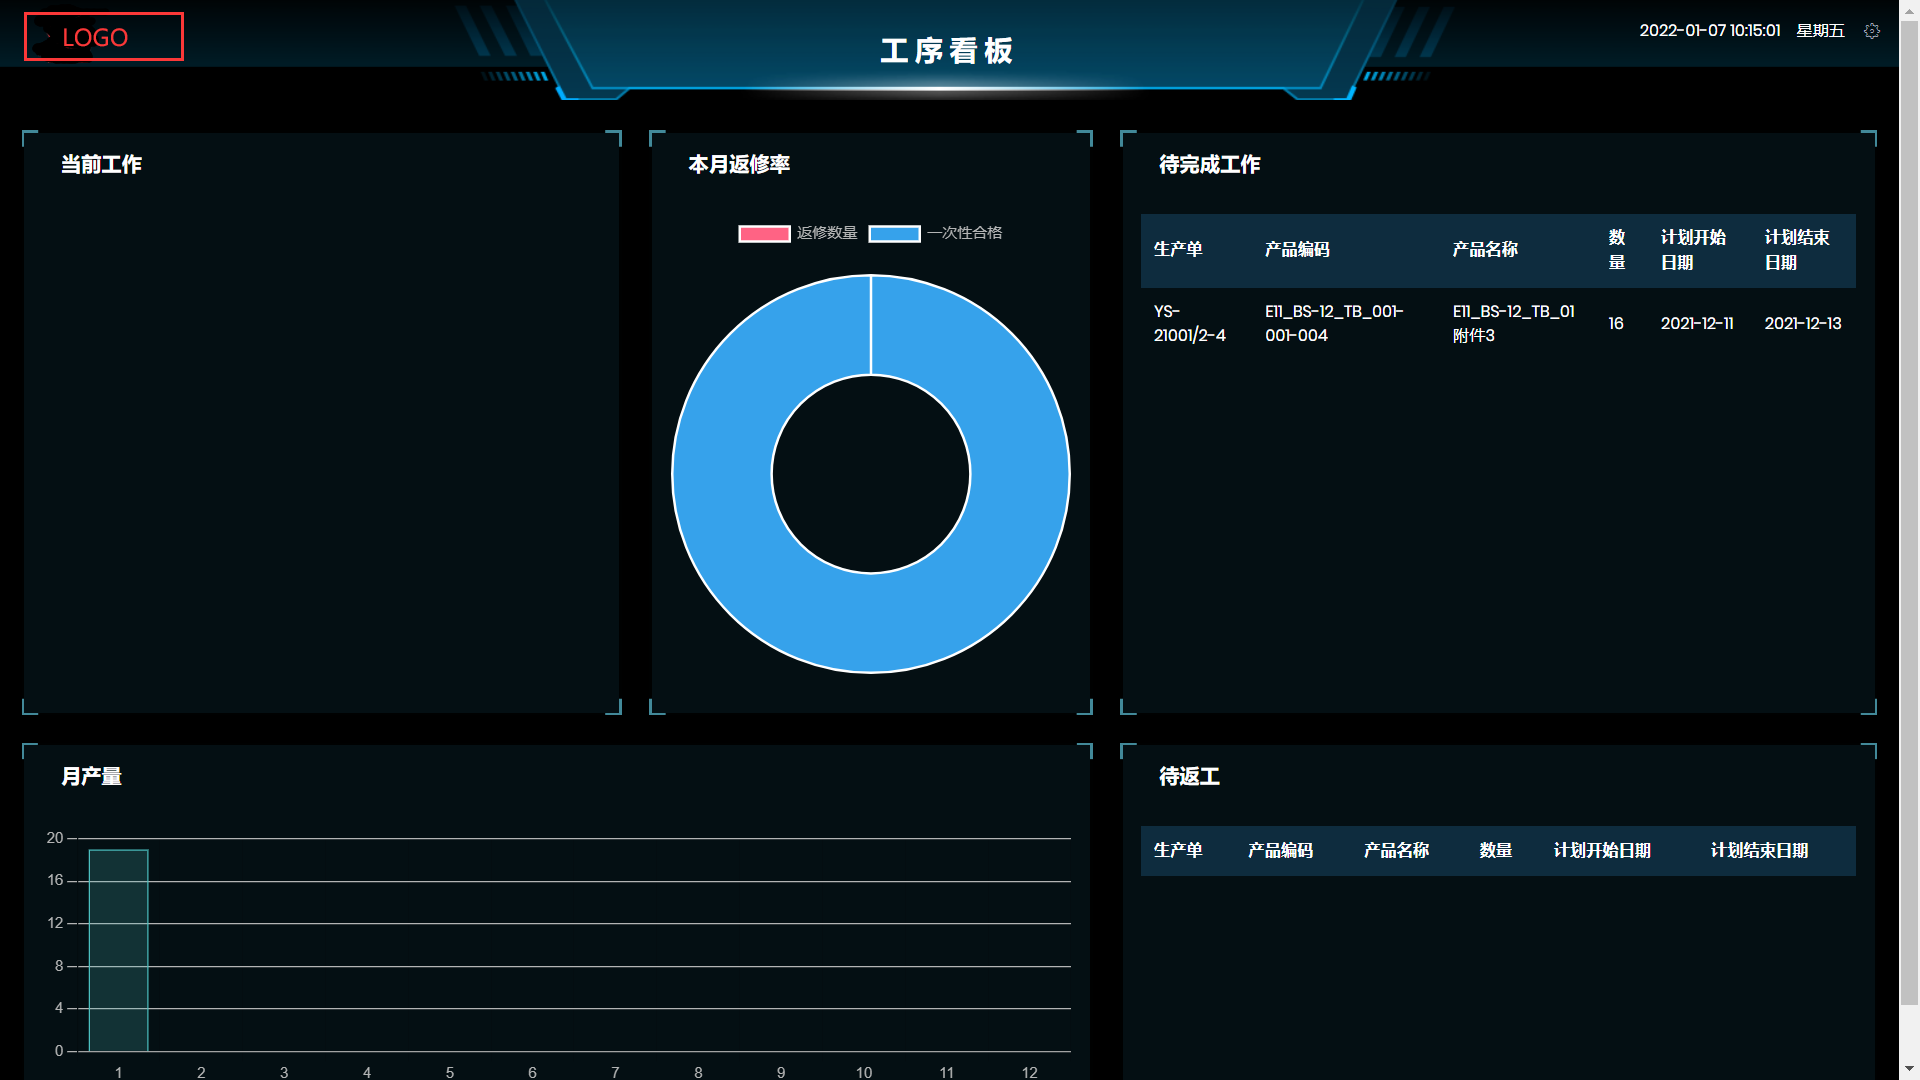
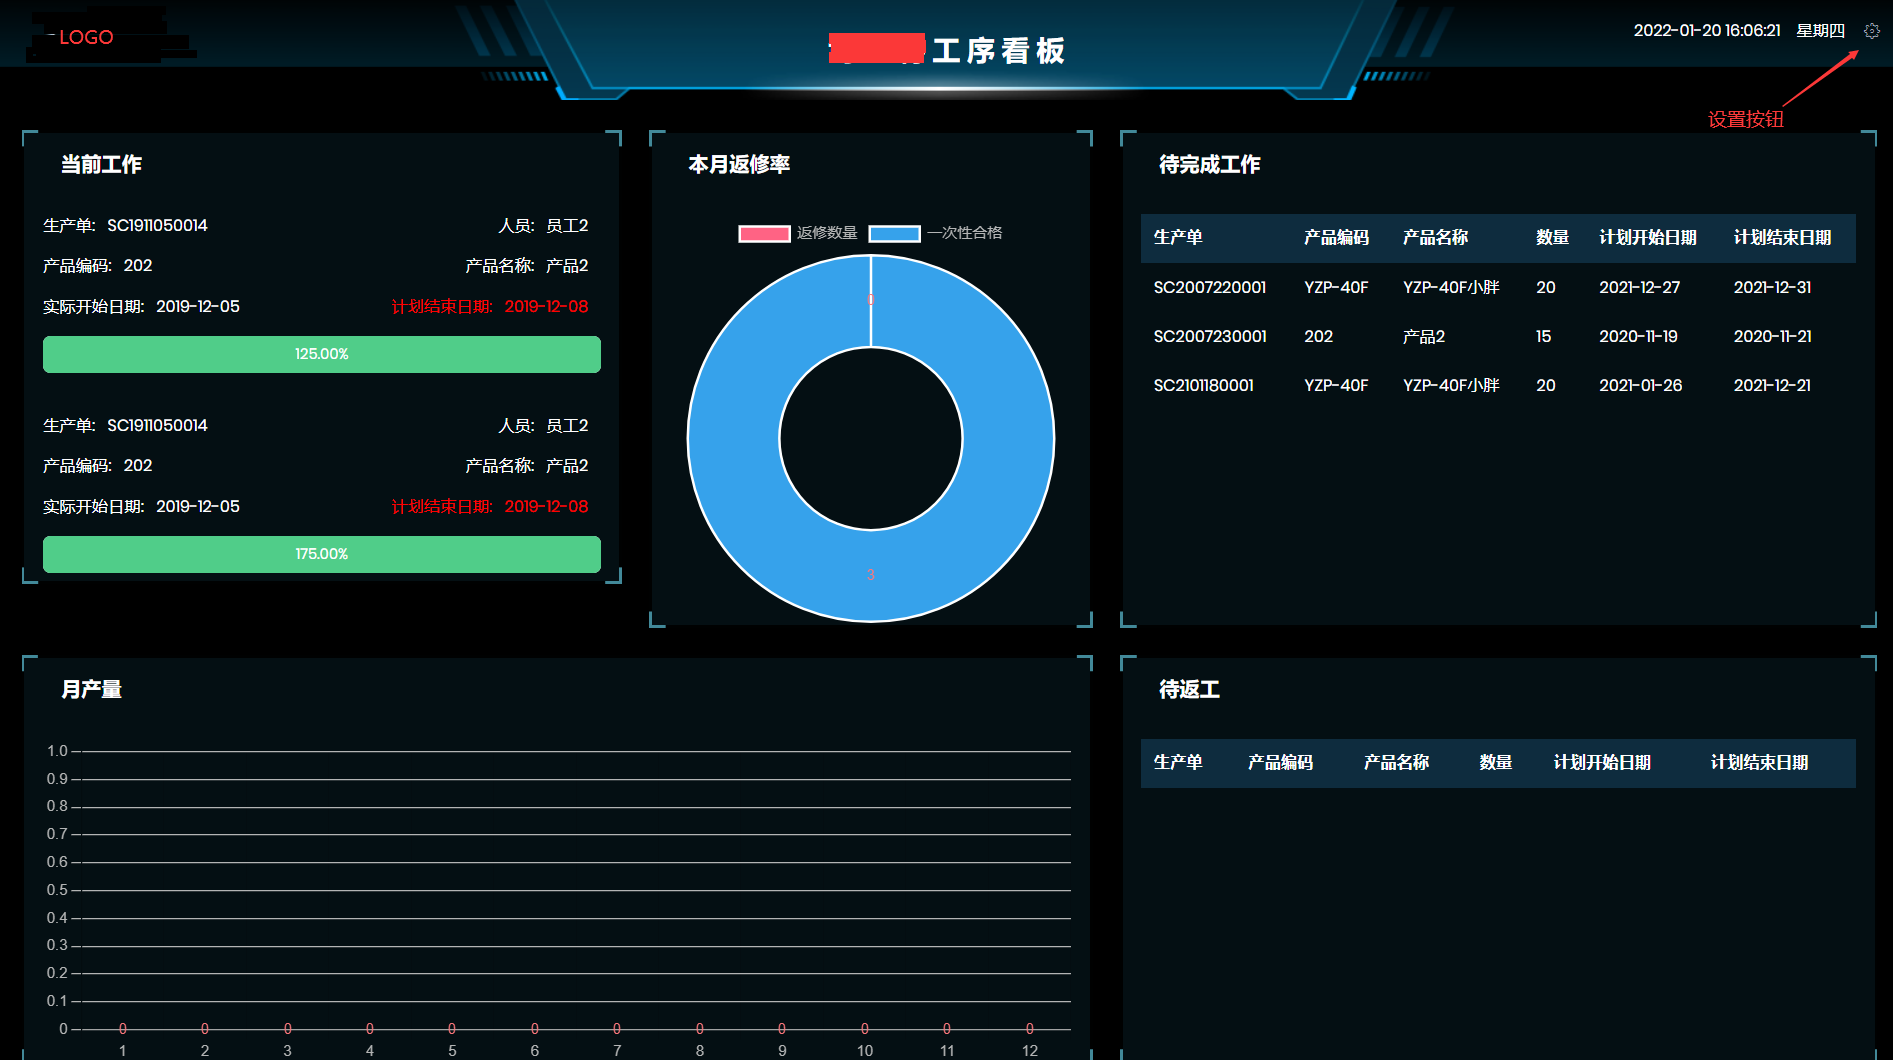
增加仪表板设置, 工资表字段说明等

diff --git a/docs/zh-Hans/HR/Payroll/PayrollItem.md b/docs/zh-Hans/HR/Payroll/PayrollItem.md
@@ -12,7 +12,95 @@
   - 日记账: 根据日记账的输入计算, 比如各种请假和补贴, 罚款等
   - 固定: 表示该项目是固定金额, 不受其他因素影响, 如出勤时间等
   - 设置: 表示该项目需要在**工资设置**中设置
-  - 计算: 设置计算的项目: 小时工资, 缺勤工资, 病假工资等, 例如:
+  - 计算: 设置计算的项目: 小时工资, 缺勤工资, 病假工资等, 
+      1. `时间/数量字段`和`金额字段`, 只能选择一个, 表示计算的结果放在那里. 
+      2. `条件`表示当满足这个条件时, 才计算这个工资名称. 如需使用数据库字段时, 使用这样的格式, `{Skill}`表示技能工资. 数据库字段参见下面的工资表字段.
+      2. `公式`是计算时使用的公式.  如需使用数据库字段时, 使用这样的格式, `{Skill}`表示技能工资. 数据库字段参见下面的工资表字段.
+      
+      例如:
 ![Payrollitem List](../../images/HR/payrollitem-list.png)
   ![Payrollitem](../../images/HR/payrollitem.png)
-- 
+- 顺序: 表示更新工资时, 按这个顺序来计算工资项目. 如: 先计算小时工资, 然后根据小时工资计算病假工资, 各种缺勤各种等.
+- 不扣税: 表示该工资项目不需要扣税. 
+- 工资表中显示日记账明细: 如果选中, 该工资名称会出现在工资表中.
+
+
+### 工资表字段
+
+<table><thead><tr><th>字段</th><th>说明</th></tr></thead>
+<tbody>
+<tr><td>EmployeeId</td><td>员工Id (员工页面可以看到)</td></tr>
+<tr><td>OrganizationUnitId</td><td>部门Id</td></tr>
+
+<tr><td>Year</td><td>年</td></tr>
+<tr><td>Month</td><td>月</td></tr>
+<tr><td>BasePay</td><td>基本工资</td></tr>
+<tr><td>Position</td><td>岗位工资</td></tr>
+<tr><td>PositionSubsidy</td><td>岗位补贴</td></tr>
+<tr><td>Skill</td><td>技能工资</td></tr>
+<tr><td>Seniority</td><td>工龄工资</td></tr>
+<tr><td>Subsidy</td><td>补贴</td></tr>
+<tr><td>PerformancePay</td><td>绩效工资</td></tr>
+<tr><td>PerformanceQty</td><td>绩效分数</td></tr>
+
+<tr><td>Total</td><td>应得工资</td></tr>
+<tr><td>Paid</td><td>实发工资</td></tr>
+<tr><td>Commission</td><td>提成</td></tr>
+<tr><td>HourlyRate</td><td>小时工资</td></tr>
+
+<tr><td>TaxableAmount</td><td>可扣税金额</td></tr>
+<tr><td>NoTaxAmount</td><td>不扣税金额</td></tr>
+<tr><td>TaxExemAmount</td><td>个税扣除项金额</td></tr>
+<tr><td>FullTime</td><td>满勤奖</td></tr>
+<tr><td>OverTime</td><td>加班工资</td></tr>
+<tr><td>OverTimeHours</td><td>加班小时</td></tr>
+<tr><td>WeekEndHours</td><td>周末加班小时</td></tr>
+<tr><td>HolidayOvertimeHours</td><td>节假日加班小时</td></tr>
+<tr><td>GeneralHoliday</td><td>假期工资</td></tr>
+<tr><td>GeneralHolidayHours</td><td>假期小时</td></tr>
+<tr><td>TimeOffInLieuHours</td><td>加班调休时间</td></tr>
+<tr><td>PieceWork</td><td>计件工资</td></tr>
+<tr><td>Bonus</td><td>奖励</td></tr>
+<tr><td>Amercement</td><td>罚金</td></tr>
+<tr><td>CalendarHours</td><td>应出勤时间(日历中设置的时间)</td></tr>
+<tr><td>CalendarOvertimeHours</td><td>应加班时间(日历中设置的加班时间)</td></tr>
+<tr><td>AttendanceHours</td><td>实际出勤时间</td></tr>
+<tr><td>SickHours</td><td>病假时间</td></tr>
+<tr><td>SickLeaveAmount</td><td>病假扣款</td></tr>
+<tr><td>SickLeaveSubsidy</td><td>病假补贴</td></tr>
+<tr><td>PrivateLeaveHours</td><td>事假时间</td></tr>
+<tr><td>PrivateLeaveAmount</td><td>事假扣款</td></tr>
+<tr><td>PaidLeaveHours</td><td>带薪休假时间</td></tr>
+<tr><td>WeddingHours</td><td>婚假时间</td></tr>
+<tr><td>LateHours</td><td>迟到小时</td></tr>
+<tr><td>LateAmount</td><td>迟到扣款</td></tr>
+<tr><td>EarlyLeaveHours</td><td>早退小时</td></tr>
+<tr><td>EarlyLeaveAmount</td><td>早退扣款</td></tr>
+<tr><td>AbsenceHours</td><td>旷工小时</td></tr>
+<tr><td>AbsenceAmount</td><td>旷工扣款</td></tr>
+<tr><td>OtherAbsenceHours</td><td>其他缺勤时间</td></tr>
+<tr><td>OtherAbsenceAmount</td><td>其他缺勤扣款</td></tr>
+<tr><td>InjuryHours</td><td>工伤时间</td></tr>
+<tr><td>InjuryLeaveAmount</td><td>工伤金额</td></tr>
+<tr><td>FuneralLeaveHours</td><td>丧假时间</td></tr>
+<tr><td>FuneralLeaveAmount</td><td>丧假金额</td></tr>
+<tr><td>Insurance</td><td>保险</td></tr>
+
+<tr><td>OneChild</td><td>独生子女</td></tr>
+<tr><td>Endowment</td><td>养老</td></tr>
+<tr><td>Medical</td><td>医疗</td></tr>
+<tr><td>Unemployment</td><td>失业</td></tr>
+<tr><td>EmploymentInjury</td><td>工伤</td></tr>
+<tr><td>Maternity</td><td>产假</td></tr>
+<tr><td>HousingFund</td><td>公积金</td></tr>
+<tr><td>EndowmentCompany</td><td>养老-公司</td></tr>
+<tr><td>MedicalCompany</td><td>医疗-公司</td></tr>
+<tr><td>UnemploymentCompany</td><td>失业-公司</td></tr>
+<tr><td>EmploymentInjuryCompany</td><td>工伤-公司</td></tr>
+<tr><td>MaternityCompany</td><td>产假-公司</td></tr>
+<tr><td>HousingFundCompany</td><td>公积金-公司</td></tr>
+
+<tr><td>Tax</td><td>个税</td></tr>
+<tr><td>BankAccount</td><td>银行账户</td></tr>
+</tbody>
+</table>

diff --git a/docs/zh-Hans/Administration/Reports/Index.md b/docs/zh-Hans/Administration/Reports/Index.md
@@ -7,7 +7,7 @@
 - 系统`默认`报表不允许用户修改
 - 如要自定义系统已有的报表样式, 可以先筛选`默认`报表, 选择要修改的报表, 点击`复制`后, `保存`成租户自己的报表, 然后点击`设计`按钮进行修改并`保存`
 ### 自定义报表特殊控件
-以下特殊控件, 须设置特殊的名称, 允许报表时会根据名称设置相应的值
+以下特殊控件, 须设置特殊的名称, 打开报表时会根据控件名称设置相应的值
 - Logo: 如果要显示logo, 请添加图像控件,并将名称改为`logo`
 - 物料属性表格列: 标题的控件名请以`InventDimTitle`开头, 例如颜色,控件名为`InventDimTitleColor`, 便于自动隐藏列
 - 库位的控件名要包含`Location`
@@ -19,7 +19,7 @@
 
 ### 字段
 - 订单类型: 选择报表用于的订单或者自定义报表, 仪表板, 图表等
-- 名称: 报表的名称, 设置后, 在工作台的*自定义报表* 中会自动按系统已有的本地化文本显示
+- 名称: 报表的名称, 设置后, 在工作台的*自定义报表* 中会自动按系统已有的本地化文本显示(为英文且系统中含有该文本的翻译, 参见管理->语言列表)
 - 标题: 图表的标题
 - 语言: 该报表对应的语言, 用于根据客户的语言设置不同的报表
 - 文件: 该报表保存成的文件名, 如果不设置文件夹, 报表会保存在数据库中

diff --git a/docs/zh-Hans/Onhands/InventoryClosing.md b/docs/zh-Hans/Onhands/InventoryClosing.md
@@ -4,5 +4,7 @@
 - 库存关闭之后, 将不能在关闭日期之前进行出入库操作.
 - 库存关闭过程中, 系统会重新计算自上次库存关闭之后的所有出入库记录, 重新计算库存和成本, 并将关闭之前的库存保存为历史库存, 然后重新计算库存关闭日期之后的库存和成本.
 - 操作: 点击`新建`, 输入关闭的日期, 点保存.
-- 删除`库存关闭`后, 请运行重新计算库存和成本.
-    - 重新计算库存和成本: 对自上次库存关闭以后的所有出入库的交易, 按时间顺序重新计算库存数量和成本. 
+- 删除`库存关闭`后, 请运行<font color="red">重新计算库存和成本</font>. 否则会导致库存中的期初, 入库, 出库数量不准确.
+    - 重新计算库存和成本: 
+        1. 对自上次库存关闭以后的所有出入库的交易, 按时间顺序重新计算库存数量和成本. 
+        2. 对于生产单, 会重新计算产品的领料成本, 结合生产单结束时计算的人工成本和间接成本, 重新更新入库单的成本.

diff --git a/docs/zh-Hans/Items/Items.md b/docs/zh-Hans/Items/Items.md
@@ -44,8 +44,9 @@
 - 外部物料编码: 用于公司间交易时, 读取对方公司的物料设置
 
 ## 物料属性
-- 物料创建后, 如需修改物料的属性, 在物料页面, 选择物料, 然后点击工具栏上的`物料属性` 按钮
-- 如果物料已经使用, 不允许增加新的属性, 但可以增加`属性值`
+- 物料创建后, 如需修改物料的属性, 在物料页面, 点击物料行上的`物料属性` 按钮.
+- 如果物料已经使用, <font color="red">不允许增加新的属性</font>, 但可以增加`属性值`
 - 可针对物料属性, 设置价格和图片,默认仓库,库位等
 
-![Item Variants ](../images/Items/item-variants.png)
+![Item Variants](../images/Items/item-variants.png)
+![Item Variants1](../images/Items/item-variants1.png)

diff --git a/docs/zh-Hans/Administration/Reports/Dashboard.md b/docs/zh-Hans/Administration/Reports/Dashboard.md
@@ -1,0 +1,20 @@
+## 仪表板
+
+大屏可视化报表, 仪表板定义后, 显示在`工作台`的`自定义报表`栏, 打开后设置参数, 可以显示相关的信息
+
+![Dashboard](../../images/Administration/dashboard.png)
+
+- 新建仪表板: ![Dashboard New](../../images/Administration/dashboard-new.png)
+- 保存后, 点击`设计`按钮, 进入设计页面, 添加图表, 设置参数等
+- ![Dashboard Setting](../../images/Administration/dashboard-setting.png)
+
+## 图表
+
+用于在仪表板中添加, 显示图表
+- 订单类型: 图表
+- 名称:
+- 文件: javascript的文件名称
+- 内容
+- 设置
+
+![Chart Design](../../images/Administration/chart-design.png)

diff --git a/docs/zh-Hans/Administration/NumSeq.md b/docs/zh-Hans/Administration/NumSeq.md
@@ -2,6 +2,6 @@
 
 用于设置各种自动编号, 如采购单, 销售单, 供应商等. 
 - 路径: 管理->基础设置->自动编号
-- 供应商和客户的编号, 可以在客户组中指定, 根据不同的客户组设置不同的编号规则
+- 供应商和客户的编号, 可以在客户组中指定(自动编号的`用于`须为`供应商`或`客户`), 根据不同的客户组设置不同的编号规则
 
 ![Numseq](../images/Administration/numseq.png)

diff --git a/docs/zh-Hans/Getting-Started.md b/docs/zh-Hans/Getting-Started.md
@@ -36,6 +36,12 @@
 - 公司名称和地址信息: 管理-->公司和门店信息, 新建, 部门留空. 输入其他信息
 
 - 公司Logo. 管理-->设置, 上传Logo, Logo会显示在打印的报表和合同中
+- <font color="red">管理-> 设置中根据需要设置相关的参数. </font>
+- ![Settings](images/Administration/settings.png)
+
+## 库存关闭
+
+参见[库存关闭](Onhands/InventoryClosing.md)
 
 ## 数据导入
 
